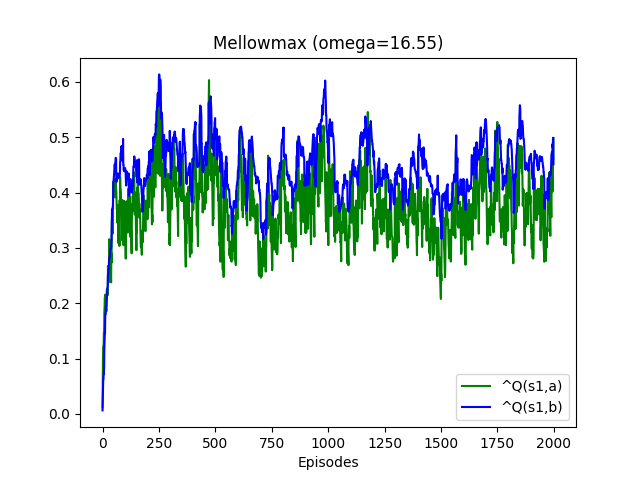
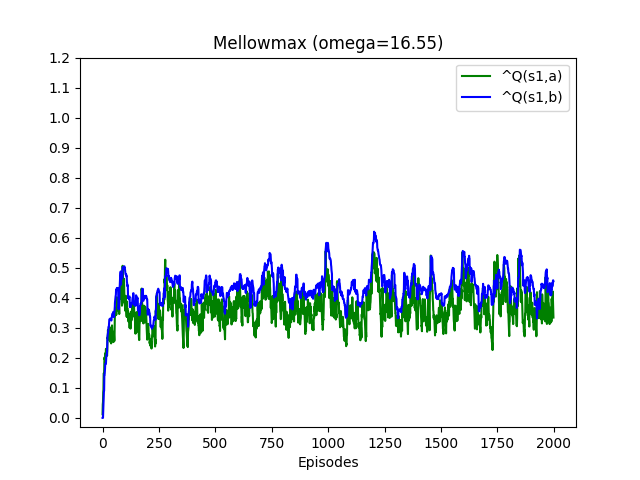
Fix SARSA y-axis ticks

diff --git a/code/sample_mdp_sarsa.py b/code/sample_mdp_sarsa.py
@@ -150,6 +150,7 @@ def train(method: str,
     plt.xlabel('Episodes')
     plt.plot(x_episode, y_qa, label='^Q(s1,a)', color='green')
     plt.plot(x_episode, y_qb, label='^Q(s1,b)', color='blue')
+    plt.yticks(np.arange(0.,1.2+0.1,0.1))
     plt.legend()
     plt.savefig(os.path.join(save_dir, f'SARSA_sampleMDP_{method}'))
     # plt.show()
@@ -163,6 +164,7 @@ def train(method: str,
     y_qb_smoothed = segment_average(y_qb, n_ele_per_seg=10)
     plt.plot(x_episode_smoothed, y_qa_smoothed, label='^Q(s1,a)', color='green')
     plt.plot(x_episode_smoothed, y_qb_smoothed, label='^Q(s1,b)', color='blue')
+    plt.yticks(np.arange(0.,1.2+0.1,0.1))
     plt.legend()
     plt.savefig(os.path.join(save_dir, f'SARSA_sampleMDP_{method}_smoothed'))
     # plt.show()
@@ -172,5 +174,5 @@ def train(method: str,
 if __name__ == '__main__':
     # Method: ['Boltzmann Softmax', 'Mellowmax']
     SAVE_DIR = 'data/sample_mdp/SARSA'
-    train(method='Boltzmann Softmax', save_dir=SAVE_DIR)
+    # train(method='Boltzmann Softmax', save_dir=SAVE_DIR)
     train(method='Mellowmax', save_dir=SAVE_DIR)
